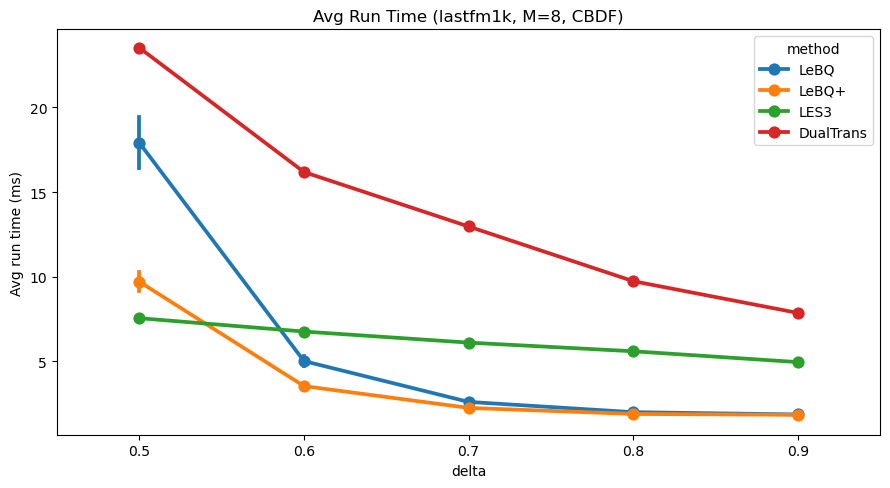
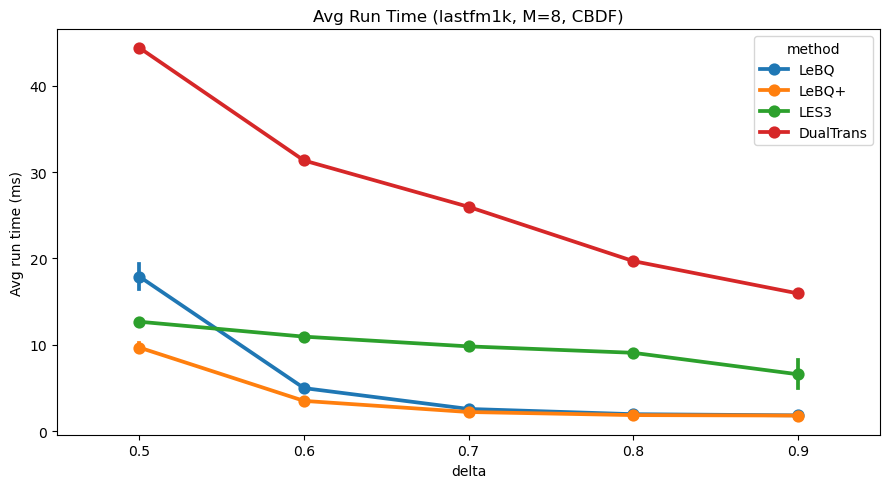
Sync with new baseline results

diff --git a/scripts/sync_results.py b/scripts/sync_results.py
@@ -1,0 +1,217 @@
+#!/usr/bin/env python3
+import argparse
+import csv
+from pathlib import Path
+
+
+TARGET_METHODS = ("LES3", "DualTrans")
+
+
+def to_result_dataset(dataset: str) -> str:
+    """Map dataset input names to the canonical result dataset name."""
+    return "lastfm1k" if dataset == "lastfm" else dataset
+
+
+def normalize_num(value: str) -> str:
+    """Normalize numeric strings so 0.90 and 0.9 match."""
+    try:
+        return str(float(value))
+    except (TypeError, ValueError):
+        return value
+
+
+def resolve_baseline_file(repo_root: Path, dataset: str) -> Path:
+    base_dir = repo_root / "baselines" / "results"
+    candidates = [base_dir / f"{dataset}_results.csv"]
+
+    # Keep compatibility with repos that use lastfm_results.csv for lastfm1k.
+    if dataset == "lastfm1k":
+        candidates.append(base_dir / "lastfm_results.csv")
+    if dataset == "lastfm":
+        candidates.append(base_dir / "lastfm1k_results.csv")
+
+    for file_path in candidates:
+        if file_path.exists():
+            return file_path
+
+    raise FileNotFoundError(
+        f"No baseline CSV found for dataset '{dataset}'. Tried: "
+        + ", ".join(str(p) for p in candidates)
+    )
+
+
+def read_baseline_updates(baseline_csv: Path, dataset: str):
+    comparison_updates = {}
+    index_updates = {}
+
+    with baseline_csv.open("r", newline="") as f:
+        reader = csv.DictReader(f)
+        for row in reader:
+            method = row.get("method", "").strip()
+            if method not in TARGET_METHODS:
+                continue
+
+            delta = row.get("delta", "").strip()
+            comparison_updates[(method, normalize_num(delta))] = [
+                method,
+                dataset,
+                "",
+                delta,
+                row.get("avg_time_ms", "").strip(),
+                row.get("avg_candidates", "").strip(),
+            ]
+
+            # One index row per method.
+            if method not in index_updates:
+                index_updates[method] = [
+                    method,
+                    dataset,
+                    row.get("construction_time_min", "").strip(),
+                    row.get("index_size_mb", "").strip(),
+                ]
+
+    return comparison_updates, index_updates
+
+
+def update_comparison_csv(path: Path, updates):
+    with path.open("r", newline="") as f:
+        rows = list(csv.reader(f))
+
+    if not rows:
+        raise ValueError(f"Empty CSV: {path}")
+
+    header = rows[0]
+    data_rows = rows[1:]
+
+    remaining = dict(updates)
+    replaced = 0
+    new_rows = []
+
+    for row in data_rows:
+        if len(row) >= 4:
+            method = row[0].strip()
+            seed = row[2].strip() if len(row) > 2 else ""
+            delta = normalize_num(row[3].strip())
+            key = (method, delta)
+            if method in TARGET_METHODS and seed == "" and key in remaining:
+                new_rows.append(remaining.pop(key))
+                replaced += 1
+                continue
+        new_rows.append(row)
+
+    # Append any method+delta pairs that were missing in the destination file.
+    for key in updates:
+        if key in remaining:
+            new_rows.append(remaining[key])
+
+    with path.open("w", newline="") as f:
+        writer = csv.writer(f)
+        writer.writerow(header)
+        writer.writerows(new_rows)
+
+    return replaced, len(remaining)
+
+
+def update_index_csv(path: Path, updates):
+    with path.open("r", newline="") as f:
+        rows = list(csv.reader(f))
+
+    if not rows:
+        raise ValueError(f"Empty CSV: {path}")
+
+    header = rows[0]
+    data_rows = rows[1:]
+
+    remaining = dict(updates)
+    replaced = 0
+    new_rows = []
+
+    for row in data_rows:
+        if row:
+            method = row[0].strip()
+            if method in remaining:
+                new_rows.append(remaining.pop(method))
+                replaced += 1
+                continue
+        new_rows.append(row)
+
+    # Append any method rows that were missing in the destination file.
+    for method in updates:
+        if method in remaining:
+            new_rows.append(remaining[method])
+
+    with path.open("w", newline="") as f:
+        writer = csv.writer(f)
+        writer.writerow(header)
+        writer.writerows(new_rows)
+
+    return replaced, len(remaining)
+
+
+def discover_datasets(repo_root: Path):
+    result_dir = repo_root / "results"
+    datasets = []
+    for file_path in sorted(result_dir.glob("comparison_*.csv")):
+        suffix = file_path.stem.replace("comparison_", "", 1)
+        if suffix:
+            datasets.append(suffix)
+    return datasets
+
+
+def sync_dataset(repo_root: Path, dataset: str):
+    baseline_csv = resolve_baseline_file(repo_root, dataset)
+    result_dataset = to_result_dataset(dataset)
+    comparison_csv = repo_root / "results" / f"comparison_{result_dataset}.csv"
+    index_csv = repo_root / "results" / f"index_{result_dataset}.csv"
+
+    if not comparison_csv.exists():
+        raise FileNotFoundError(f"Missing file: {comparison_csv}")
+    if not index_csv.exists():
+        raise FileNotFoundError(f"Missing file: {index_csv}")
+
+    comparison_updates, index_updates = read_baseline_updates(baseline_csv, result_dataset)
+
+    if not comparison_updates and not index_updates:
+        print(f"[{dataset}] no LES3/DualTrans rows found in {baseline_csv}")
+        return
+
+    comp_replaced, comp_missing = update_comparison_csv(comparison_csv, comparison_updates)
+    idx_replaced, idx_missing = update_index_csv(index_csv, index_updates)
+
+    print(
+        f"[{dataset}] comparison updated (replaced={comp_replaced}, appended={comp_missing}), "
+        f"index updated (replaced={idx_replaced}, appended={idx_missing})"
+    )
+
+
+def main():
+    parser = argparse.ArgumentParser(
+        description="Sync LES3/DualTrans rows from baselines/results into results CSVs."
+    )
+    parser.add_argument(
+        "--dataset",
+        action="append",
+        help="Dataset name (e.g., kosarak, retail, lastfm or lastfm1k). Can be used multiple times.",
+    )
+    parser.add_argument(
+        "--all",
+        action="store_true",
+        help="Update all datasets discovered from results/comparison_*.csv.",
+    )
+    args = parser.parse_args()
+
+    repo_root = Path(__file__).resolve().parents[1]
+
+    datasets = args.dataset or []
+    if args.all:
+        datasets = discover_datasets(repo_root)
+
+    if not datasets:
+        parser.error("Provide --dataset <name> or use --all")
+
+    for ds in datasets:
+        sync_dataset(repo_root, ds)
+
+
+if __name__ == "__main__":
+    main()
